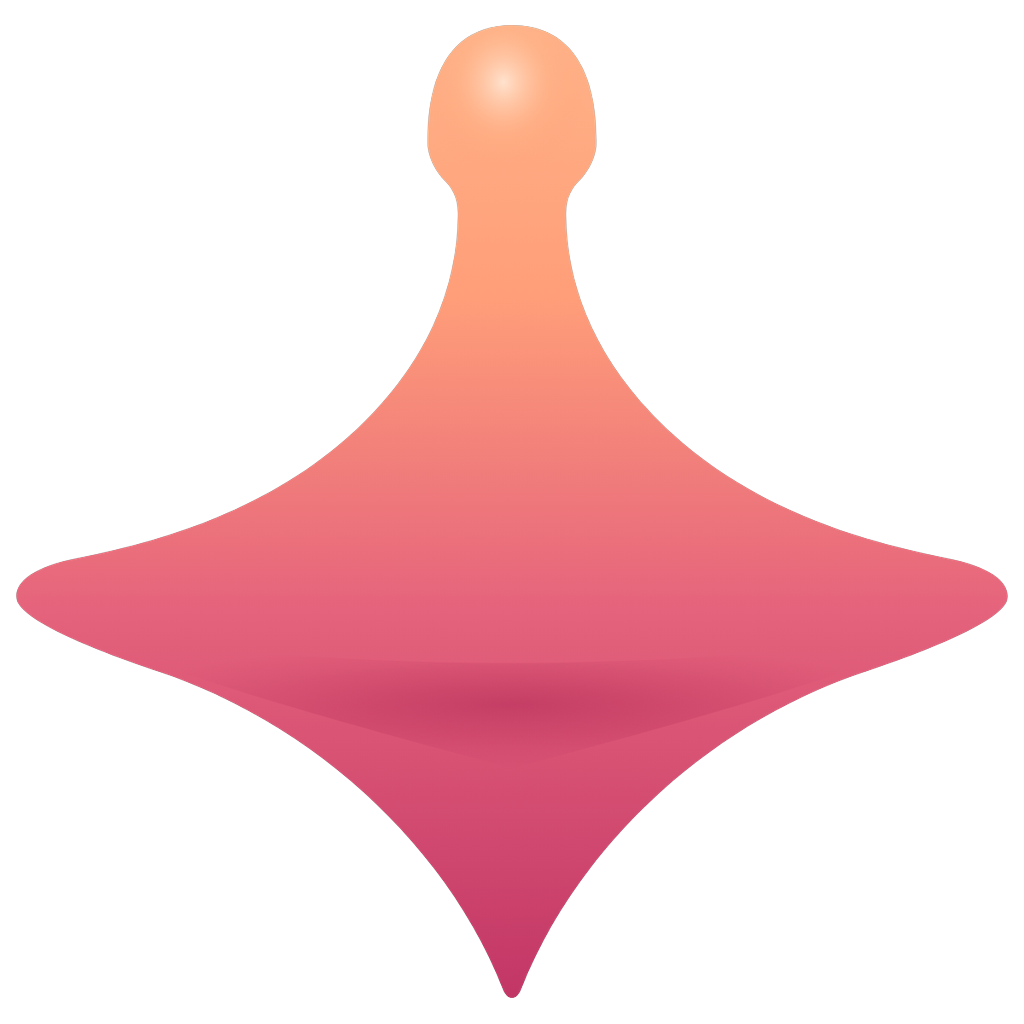
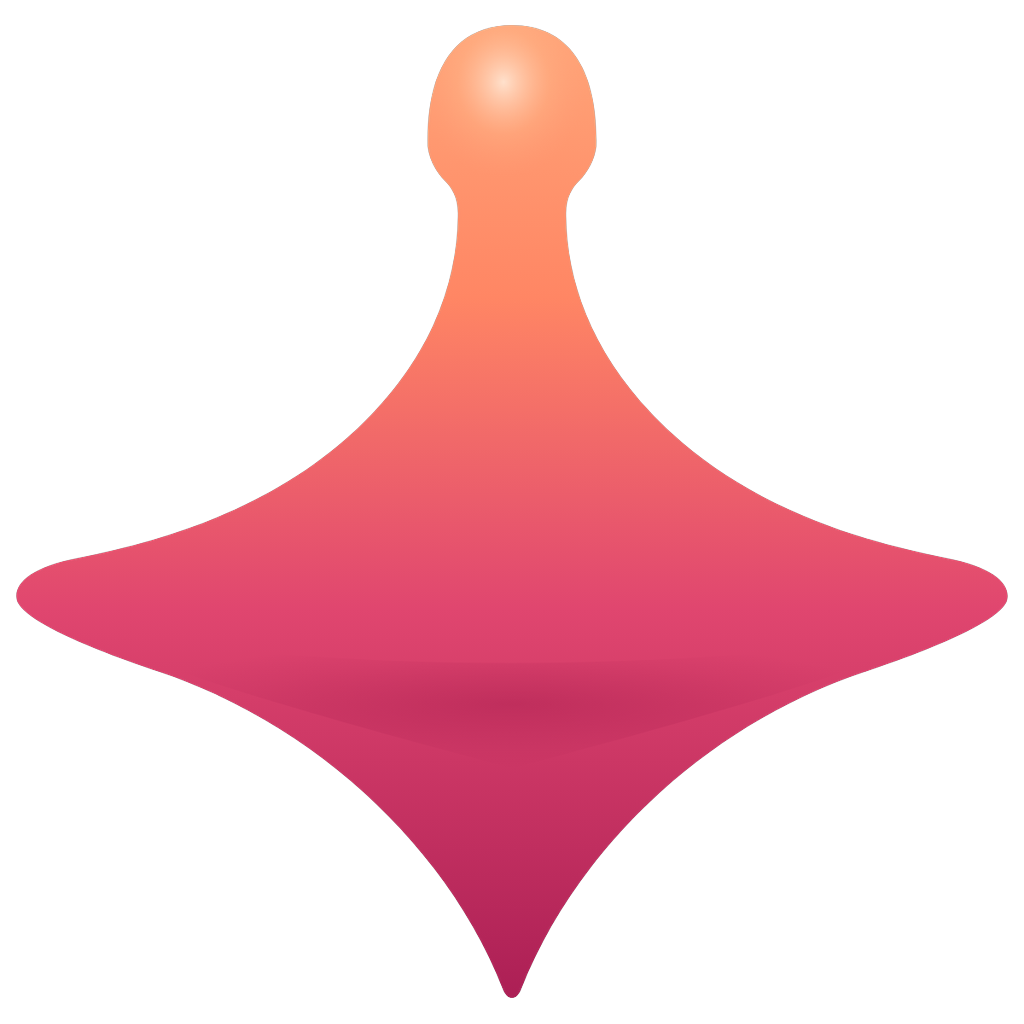
fix(brand): deepen mark gradient saturation, size up sidebar mark
Colors read washed out at small sizes; sidebar mark bumped 28->34px.

Changed region(s): [[0.0, 0.2812, 1.0, 0.9062]]

diff --git a/apps/web/components/platform/Sidebar.tsx b/apps/web/components/platform/Sidebar.tsx
@@ -238,7 +238,7 @@ export function Sidebar() {
                                     src="/brand/olmoworks-mark.svg"
                                     alt={brandName}
                                     className="shrink-0 object-contain"
-                                    style={{ height: 28, width: "auto" }}
+                                    style={{ height: 34, width: "auto" }}
                                 />
                             )}
                             <span className="text-base font-semibold text-foreground tracking-tight truncate">{brandName}</span>
